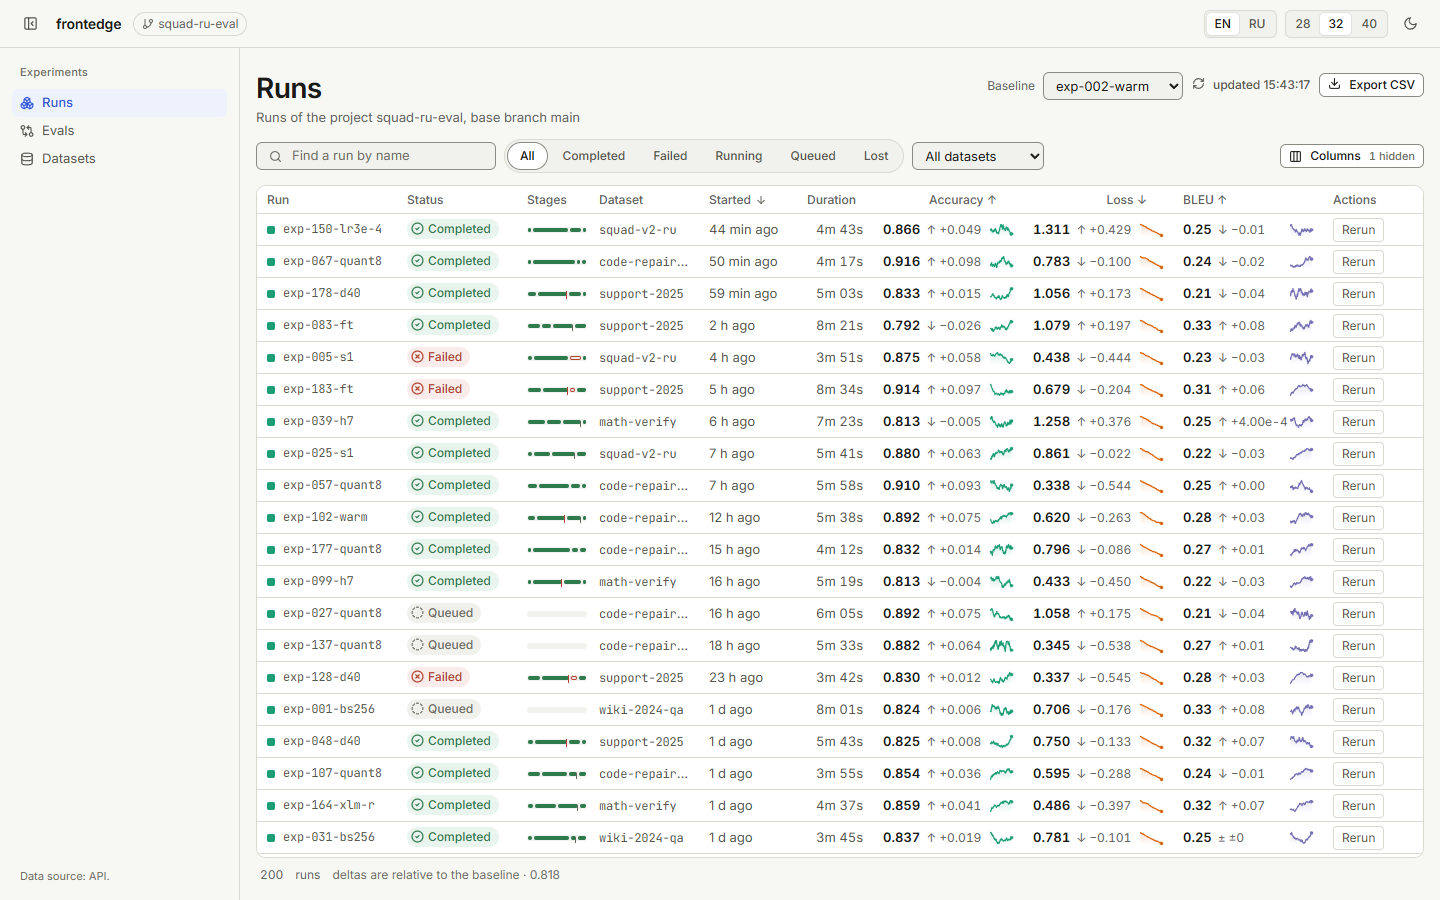
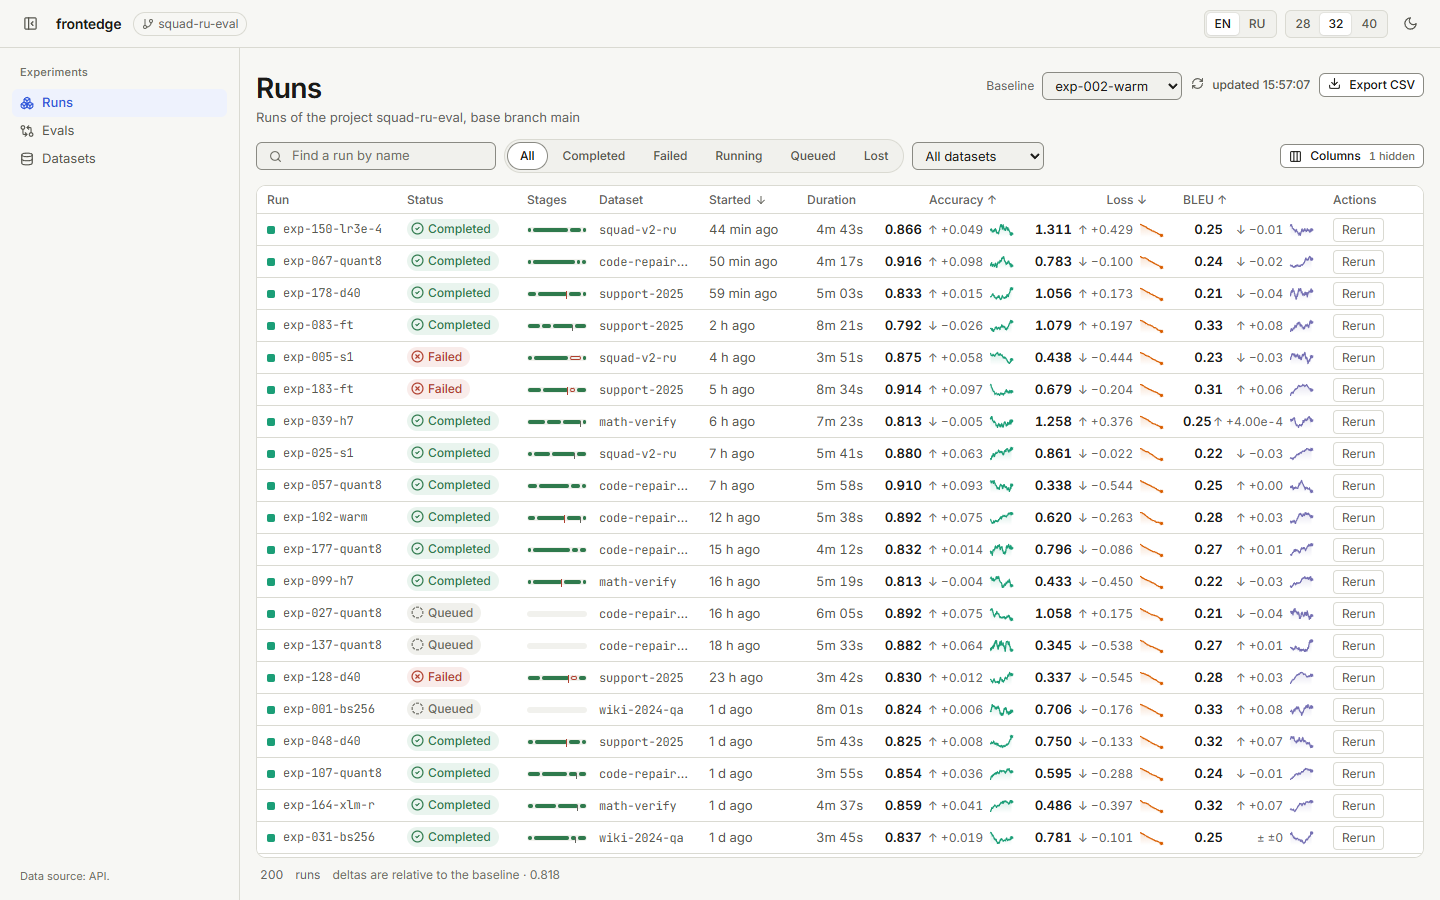
fix(ui): keep the metric cell together
The value and the delta were pinned to the left edge of the column and the sparkline to the right, so a short metric like BLEU floated away from its graph. The pair is now right-aligned against the sparkline, and the delta has a fixed track, so values, deltas and graphs each line up across rows. A metric without a series no longer reserves the sparkline's space.

diff --git a/packages/ui/src/patterns/MetricCell.tsx b/packages/ui/src/patterns/MetricCell.tsx
@@ -46,9 +46,10 @@ export function MetricCell({
   const hasBaseline = baseline !== undefined && Number.isFinite(baseline);
   const delta = hasBaseline && value !== undefined ? value - baseline : undefined;
   const deltaMeta = delta !== undefined ? describeDelta(delta, direction) : undefined;
+  const hasSpark = Boolean(withSparkline && series && series.length > 1);
 
   return (
-    <span className="fe-metric">
+    <span className={`fe-metric${hasSpark ? "" : " fe-metric--no-spark"}`}>
       <span className="fe-metric__value fe-num">{formatMetric(value, digits, lang)}</span>
       {delta !== undefined && deltaMeta ? (
         <span
@@ -62,12 +63,12 @@ export function MetricCell({
           ) : null}
         </span>
       ) : null}
-      {withSparkline && series && series.length > 1 ? (
+      {hasSpark ? (
         // Pinned to the right edge: the sparklines of a column must share one baseline, and the
-        // delta before them is as wide as its number.
+        // delta before them has a fixed width, so the values line up too.
         <span className="fe-metric__spark">
           <Sparkline
-            values={series}
+            values={series ?? []}
             color={color}
             width={24}
             height={14}

diff --git a/packages/ui/src/styles/patterns.css b/packages/ui/src/styles/patterns.css
@@ -164,12 +164,18 @@
 .fe-metric {
   position: relative;
   display: flex;
+  justify-content: flex-end;
   align-items: center;
   gap: 6px;
   min-width: 0;
   width: 100%;
-  /* The sparkline is taken out of the flow, so a wide delta never pushes it. */
+  /* The sparkline is taken out of the flow, so a wide delta never pushes it. The value and the
+     delta sit against the sparkline instead of drifting to the left edge of a wide column. */
   padding-right: 30px;
+}
+
+.fe-metric--no-spark {
+  padding-right: 0;
 }
 
 .fe-metric__spark {
@@ -189,8 +195,11 @@
 
 .fe-metric__delta {
   display: inline-flex;
+  justify-content: flex-end;
   align-items: baseline;
   gap: 3px;
+  /* A fixed track: "±0" and "↑ +0.048" end on the same line, so the values line up. */
+  min-width: 54px;
   font-size: var(--fe-text-12);
   color: var(--fe-text-tertiary);
 }
